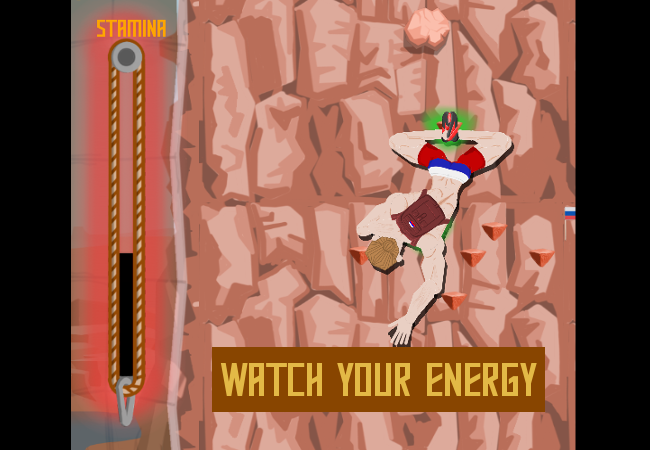
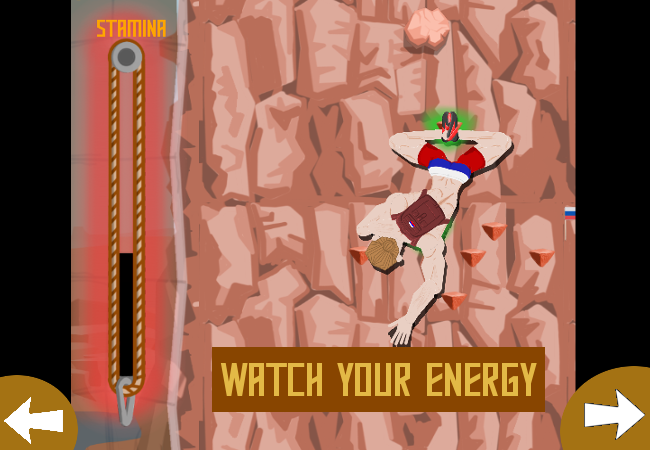
HowToPlay menu, new tutorial guide

Changed region(s): [[0.8615, 0.8089, 1.0, 1.0], [0.0, 0.8089, 0.1231, 1.0]]

diff --git a/MountSputnik/core/src/beigegang/mountsputnik/GamingMode.java b/MountSputnik/core/src/beigegang/mountsputnik/GamingMode.java
@@ -638,7 +638,7 @@ public class GamingMode extends ModeController {
         if(currLevel == LEVEL_TUTORIAL && id == GAME_MODE){
 	        //To make tutorial: currentStep = 0; 
 	        jsonReader = new JsonReader();
-	        tutorialGuide = jsonReader.parse(Gdx.files.internal("Levels/tutorial/tutorialGuide.json"));
+	        tutorialGuide = jsonReader.parse(Gdx.files.internal("Levels/tutorial/tutorialGuide2.json"));
 	        currentTutorialStep = tutorialGuide.get(currentStep); 
         }
         
@@ -858,6 +858,7 @@ public class GamingMode extends ModeController {
             character = character1;
             movementController = movementController1;
             input = InputController.getInstance(CONTROLLER_1);
+            //tutorialGuide
             if(currLevel == LEVEL_TUTORIAL){
             	input.filterInput(currentTutorialStep.getInt("e")); 
             }
@@ -868,7 +869,7 @@ public class GamingMode extends ModeController {
             input = InputController.getInstance(CONTROLLER_2);
 
         }
-        if (currLevel == LEVEL_TUTORIAL && input.didX()){
+        if (input.didX()){
             listener.exitScreen(this, EXIT_INSTRUCTIONS);
 
         }
@@ -1156,6 +1157,7 @@ public class GamingMode extends ModeController {
             ExtremityModel other = (ExtremityModel) c.parts.get(EXTREMITIES[numbering]);
             e.setGripTime(other.getGripTime());
         }
+        //System.out.println(h.getPosition().toString());
         //This is code to make a tutorialGuide. Will delete when we have settled on one
 //        positionListWrite += "\"" + currentStep + "\" : {"; 
 //        positionListWrite += "\"x\": " + h.getPosition().x + ","; 
@@ -1401,6 +1403,7 @@ public class GamingMode extends ModeController {
             HandholdModel handholdModel = (HandholdModel) e.getJoint().getBodyB().getFixtureList().get(0).getUserData();
             if (handholdModel.getX() == x && handholdModel.getY() == y) {
                 currentStep++;
+                //System.out.println(currentStep); 
                 currentTutorialStep = tutorialGuide.get(currentStep);
             }
         }
@@ -1456,8 +1459,16 @@ public class GamingMode extends ModeController {
                 }
             }
         }
+        for (GameObject obj: objects){
+        	if(obj instanceof HandholdModel){
+        		((HandholdModel) obj).drawGlow(canvas);
+        	}
+        }
+        
+        //tutorialGuide
         if(id == GAME_MODE && currLevel == LEVEL_TUTORIAL)
         	canvas.draw(tutorialCircle, Color.WHITE, currentTutorialStep.getFloat("x") * scale.x - 25, currentTutorialStep.getFloat("y") * scale.y - 25, 50,50);
+        
         for (GameObject obj : objects) obj.draw(canvas);
         if (tutorialToggle1)
             SharedMethods.drawToggles(canvas, character1, input1, tutorialTextures,  scale);
@@ -1474,11 +1485,12 @@ public class GamingMode extends ModeController {
             }
         }
         
+        //tutorialGuide
         if (id == GAME_MODE && currLevel == LEVEL_TUTORIAL){
 	        Vector2 characterPos = character1.parts.get(currentTutorialStep.getInt("e")).getPosition(); 
 	        canvas.draw(tutorialRing, Color.WHITE, characterPos.x*scale.x - 25, characterPos.y * scale.y - 25,50,50);
 	    }
-
+        
         if (warningController != null) warningController.draw(canvas);
         canvas.end();
 
@@ -1631,7 +1643,7 @@ public class GamingMode extends ModeController {
         isDead = true;
     }
     public void instruct(){
-        if (currLevel == LEVEL_TUTORIAL && id == GAME_MODE){
+        if (id == GAME_MODE){
             instructionMode.reset();
             isInstructing = true;
         }

diff --git a/MountSputnik/core/src/beigegang/mountsputnik/InstructionMode.java b/MountSputnik/core/src/beigegang/mountsputnik/InstructionMode.java
@@ -24,7 +24,7 @@ public class InstructionMode extends ModeController {
 
     private static final String OVERLAY_FILE = "Menu/Overlay.jpg";
     private static final String TEXTBOX_FILE = "Menu/Text Box.png";
-    private static int maxScreen = 2;
+    private static int maxScreen = 4;
     private static int curScreen = 0;
     private static final String[] SLIDE_FILES= new String[maxScreen];
 
@@ -48,7 +48,7 @@ public class InstructionMode extends ModeController {
         assetManager = manager;
 
         for (int i = 0; i < SLIDE_FILES.length; i++) {
-            SLIDE_FILES[i] = "assets/tutorial/slide" + i + ".png";
+            SLIDE_FILES[i] = "assets/tutorial/HowToPlay/slide" + i + ".png";
             loadAddTexture(SLIDE_FILES[i]);
         }
         assetState = AssetState.LOADING;
@@ -76,7 +76,7 @@ public class InstructionMode extends ModeController {
         textbox = createTexture(manager, TEXTBOX_FILE, false);
         for (int i = 0; i < SLIDE_FILES.length; i++) {
             slides[i] = createTexture(manager, SLIDE_FILES[i], false);
-            System.out.println(SLIDE_FILES[i]);
+            //System.out.println(SLIDE_FILES[i]);
         }
         assetState = AssetState.COMPLETE;
     }
@@ -127,6 +127,8 @@ public class InstructionMode extends ModeController {
         canvas.draw(slides[curScreen], Color.WHITE, (canvas.getWidth() - textboxWidth) / 2,
                 bottomOfScreen + (canvas.getHeight() - textboxHeight) / 2,
                 textboxWidth, textboxHeight);
+        canvas.drawTextCentered("Press X to dismiss", fontNormal, (canvas.getCamera().position.y - canvas.getHeight()*3/4) );
+	
 //        for (int i = 0; i < menuOptions.length; i++) {
 //            font = currSelection == i ? fontSelected : fontNormal;
 //            canvas.drawTextCentered(menuOptions[i], font, drawY);

diff --git a/MountSputnik/core/src/beigegang/mountsputnik/HandholdModel.java b/MountSputnik/core/src/beigegang/mountsputnik/HandholdModel.java
@@ -207,10 +207,7 @@ public class HandholdModel extends GameObject{
 		isSnapped = true;
 	}
 
-	@Override
-	public void draw(GameCanvas canvas) {
-
-		//TODO: remove this if check once all level blocks only contain handholds within the playable area
+	public void drawGlow(GameCanvas canvas){
 		if (getX() * drawPositionScale.x > canvas.getWidth() / 5 && getX() * drawPositionScale.x < canvas.getWidth() * 4 / 5) {
 			if (isSnapped){
 				canvas.draw(glowTexture, Color.LIME, glowOrigin.x, glowOrigin.y, getX() * drawPositionScale.x, getY() * drawPositionScale.y,
@@ -227,6 +224,15 @@ public class HandholdModel extends GameObject{
 							getAngle(), drawSizeScale.x, drawSizeScale.y);
 				}
 			}
+		}
+	}
+	
+	@Override
+	public void draw(GameCanvas canvas) {
+
+		//TODO: remove this if check once all level blocks only contain handholds within the playable area
+		if (getX() * drawPositionScale.x > canvas.getWidth() / 5 && getX() * drawPositionScale.x < canvas.getWidth() * 4 / 5) {
+			
 				canvas.draw(animator, Color.WHITE, origin.x, origin.y,
 						getX() * drawPositionScale.x, getY() * drawPositionScale.y,
 						getAngle(), drawSizeScale.x, drawSizeScale.y);
